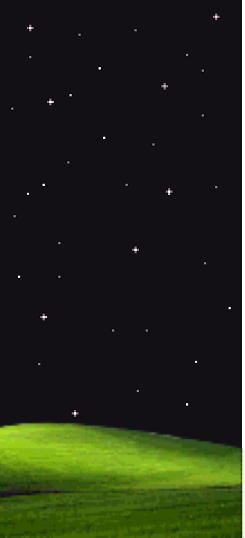
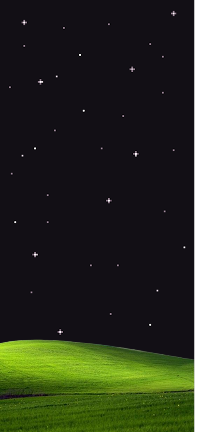
배경 수정

diff --git a/src/index.css b/src/index.css
@@ -1,7 +1,7 @@
 @import "tailwindcss";
 
 :root {
-  --shell-max: 430px;          /* 아이폰 15 Pro Max 폭 기준 */
+  --shell-max: 432px;          /* 아이폰 15 Pro Max 폭 기준 */
   --tabbar-h: 56px;
   --safe-bottom: env(safe-area-inset-bottom, 0px);
   --safe-top: env(safe-area-inset-top, 0px);
@@ -36,7 +36,7 @@ body {
 
   background-color: #0D0D1A;
   background-image: url('/assets/ui/bg-space.png');
-  background-size: 432px auto;      /* 셸 폭에 맞춤 — 도트 배율 고정 */
+  background-size: 450px auto;      /* 셸 폭에 맞춤 — 도트 배율 고정 */
   background-position: top center;
   background-repeat: repeat-y;      /* 세로로 반복 */
   image-rendering: pixelated;
